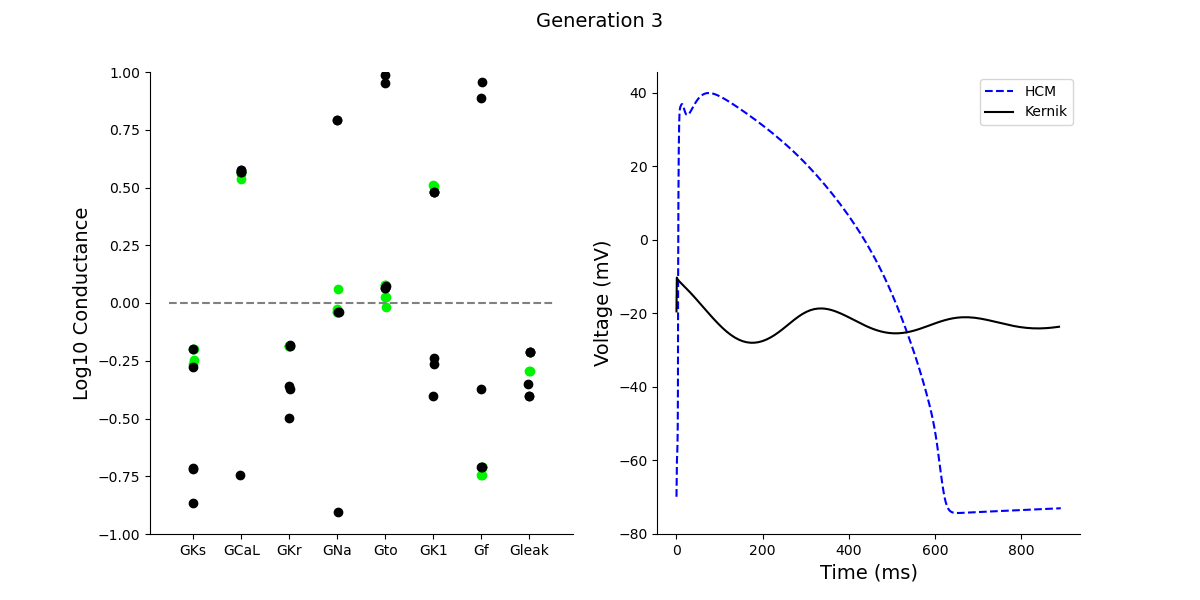
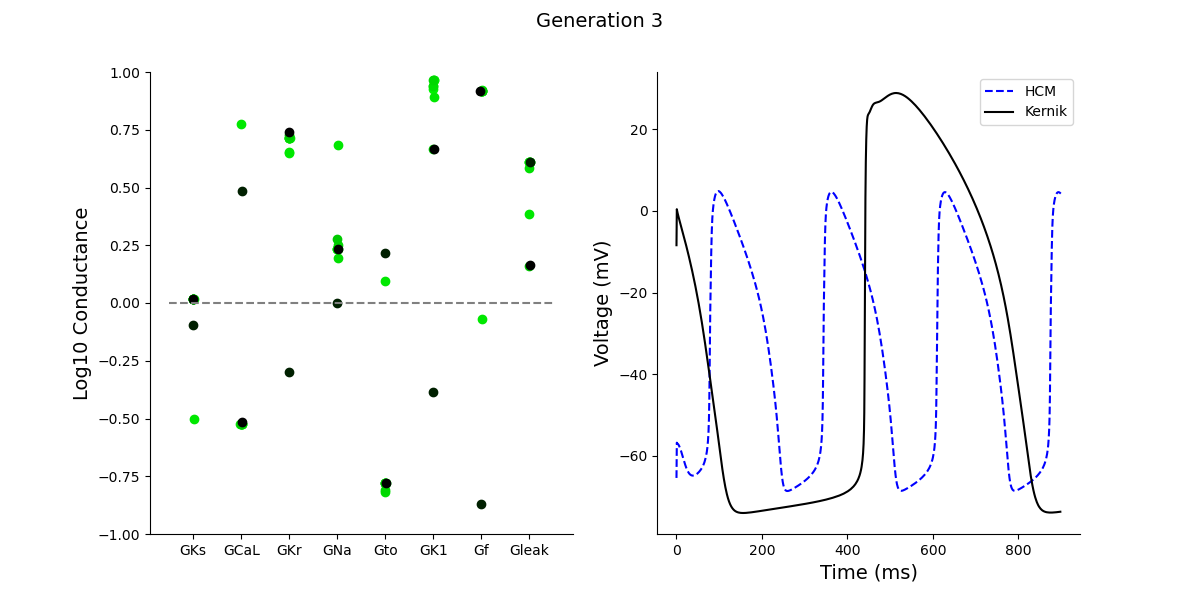
code

diff --git a/HCM_GA_KernikUpdate.py b/HCM_GA_KernikUpdate.py
@@ -311,11 +311,11 @@ def get_normal_sim_dat(ind):
         for k, v in ind[0].items():
             k1, k2 = k.split('.')
             mod[k1][k2].set_rhs(v)
+    else:
+        mod['membrane']['gLeak'].set_rhs(0.2)
     
     mod['ik1']['g_K1'].set_rhs(mod['ik1']['g_K1'].value()*(11.24/5.67))
     mod['ina']['g_Na'].set_rhs(mod['ina']['g_Na'].value()*(187/129))
-
-    #mod['membrane']['gLeak'].set_rhs(0.2)
 
     proto.schedule(4, 10, 1, 1000, 0)
     
